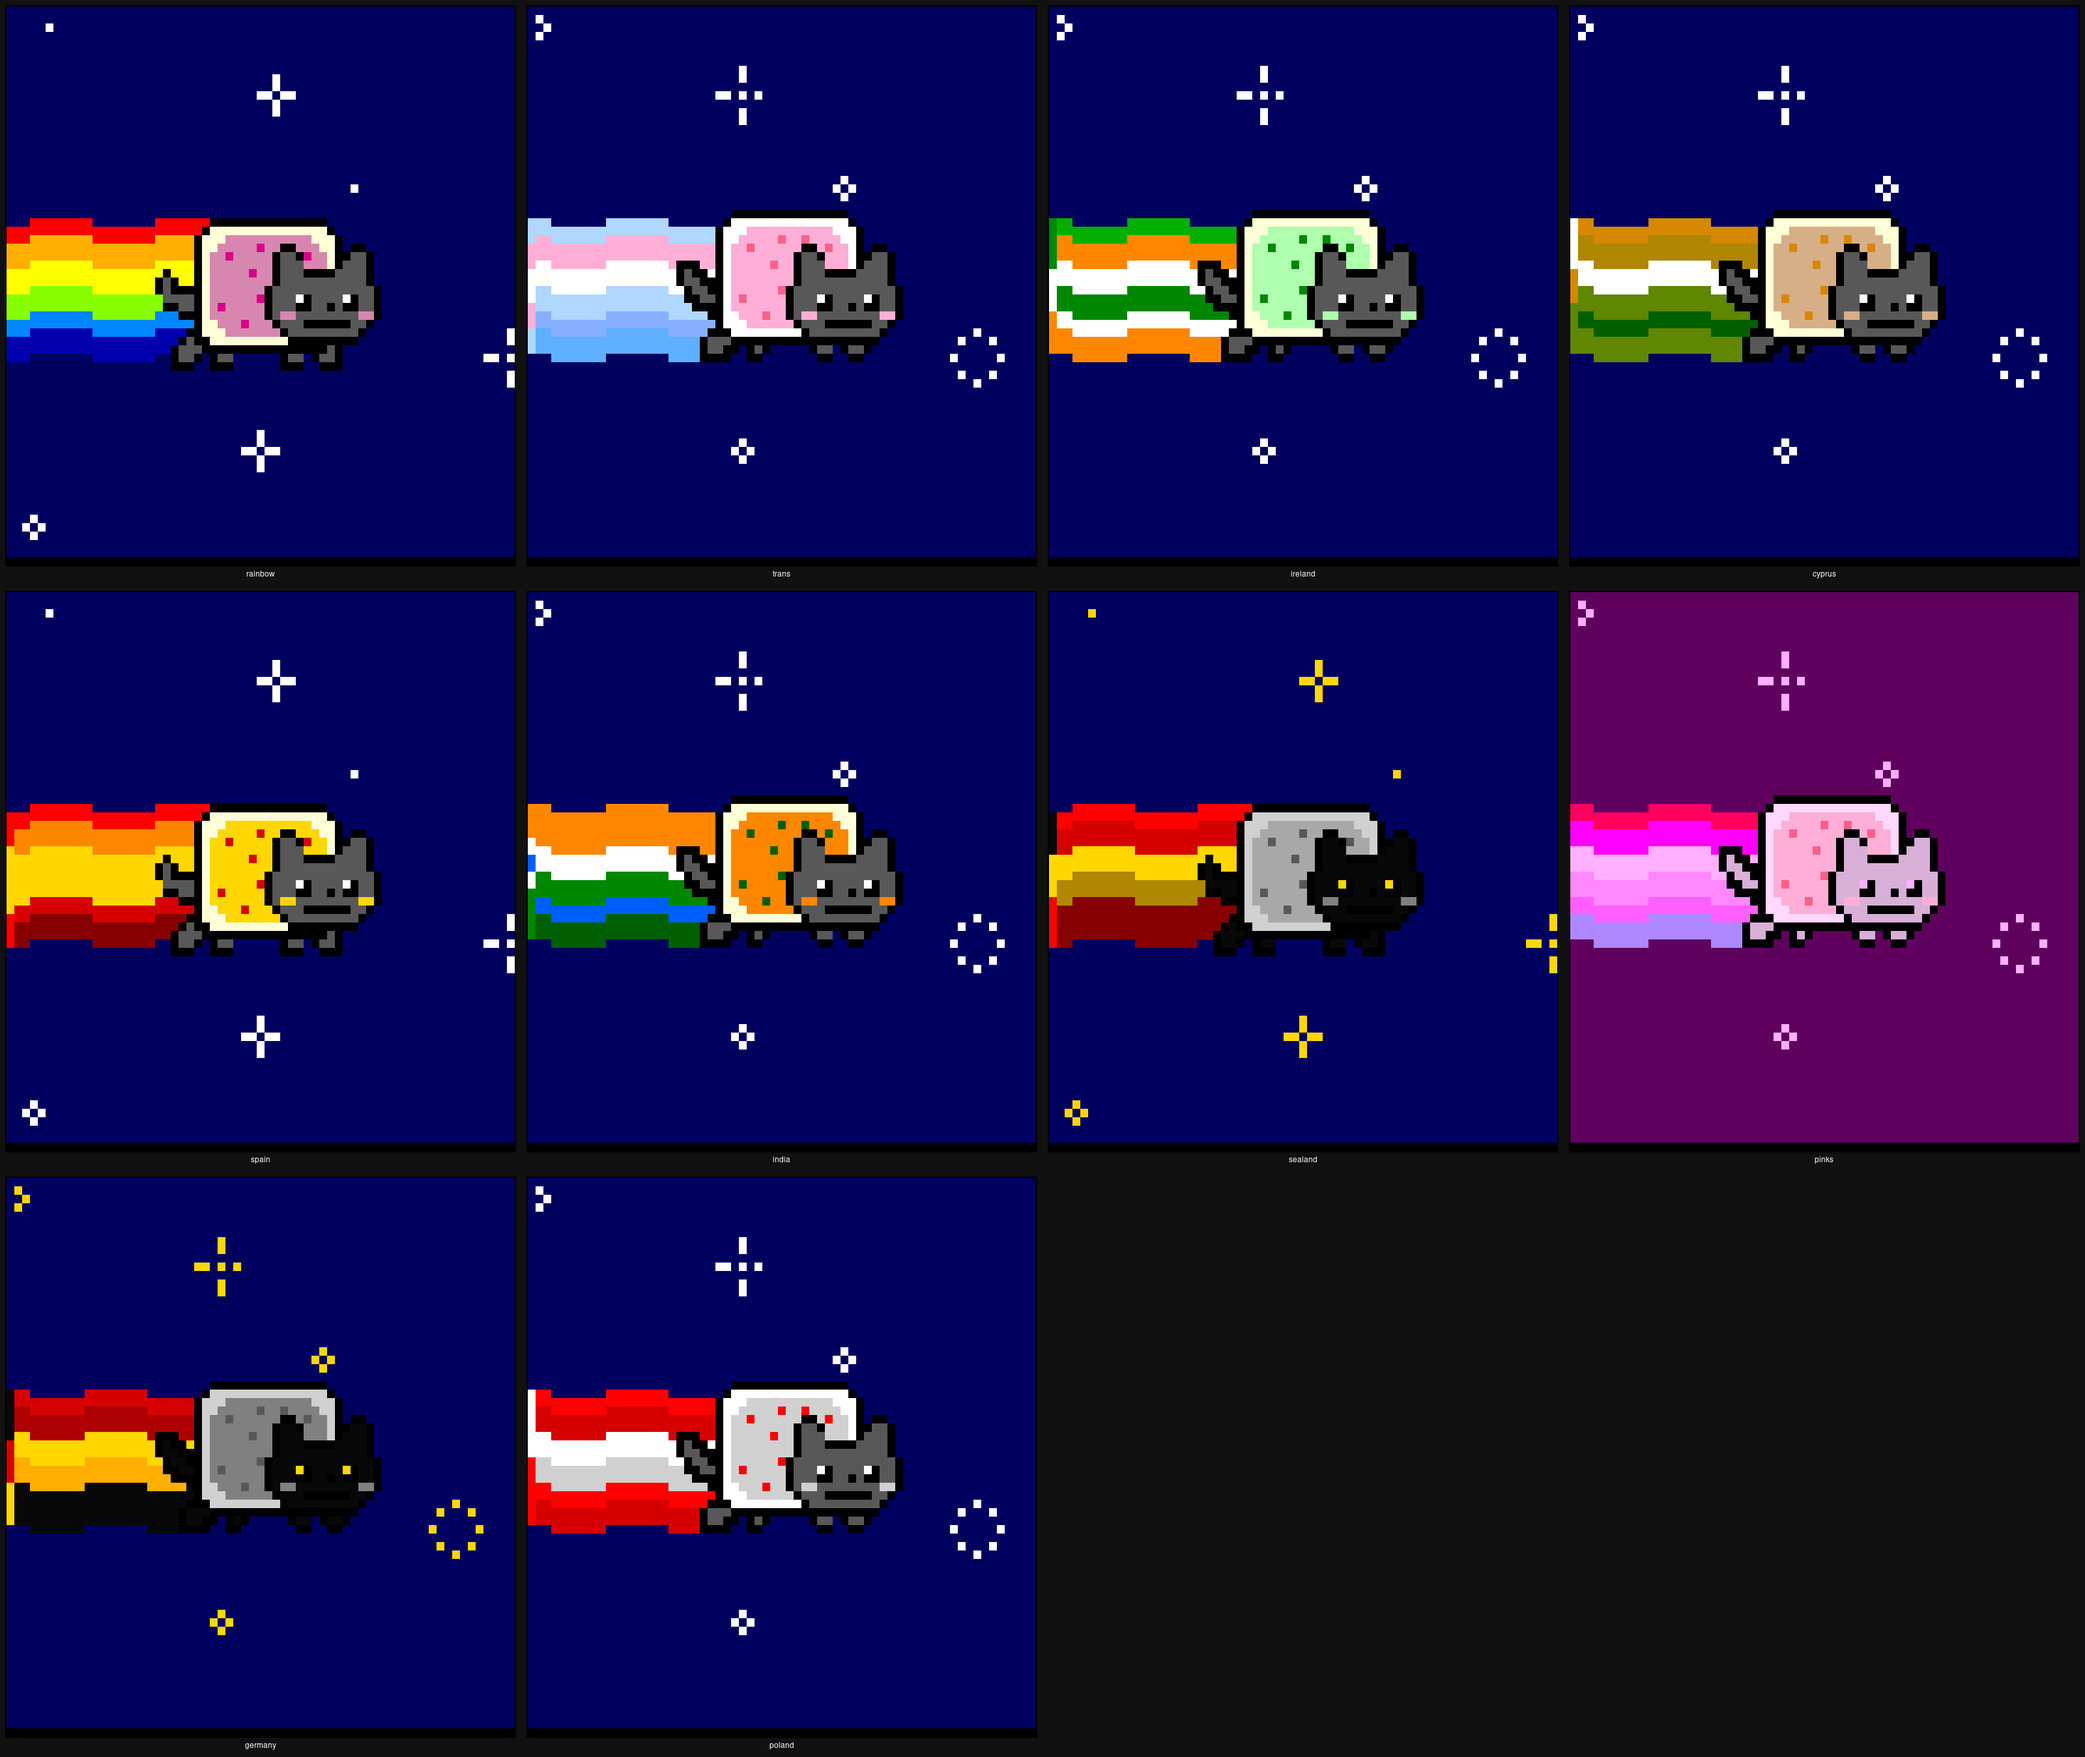
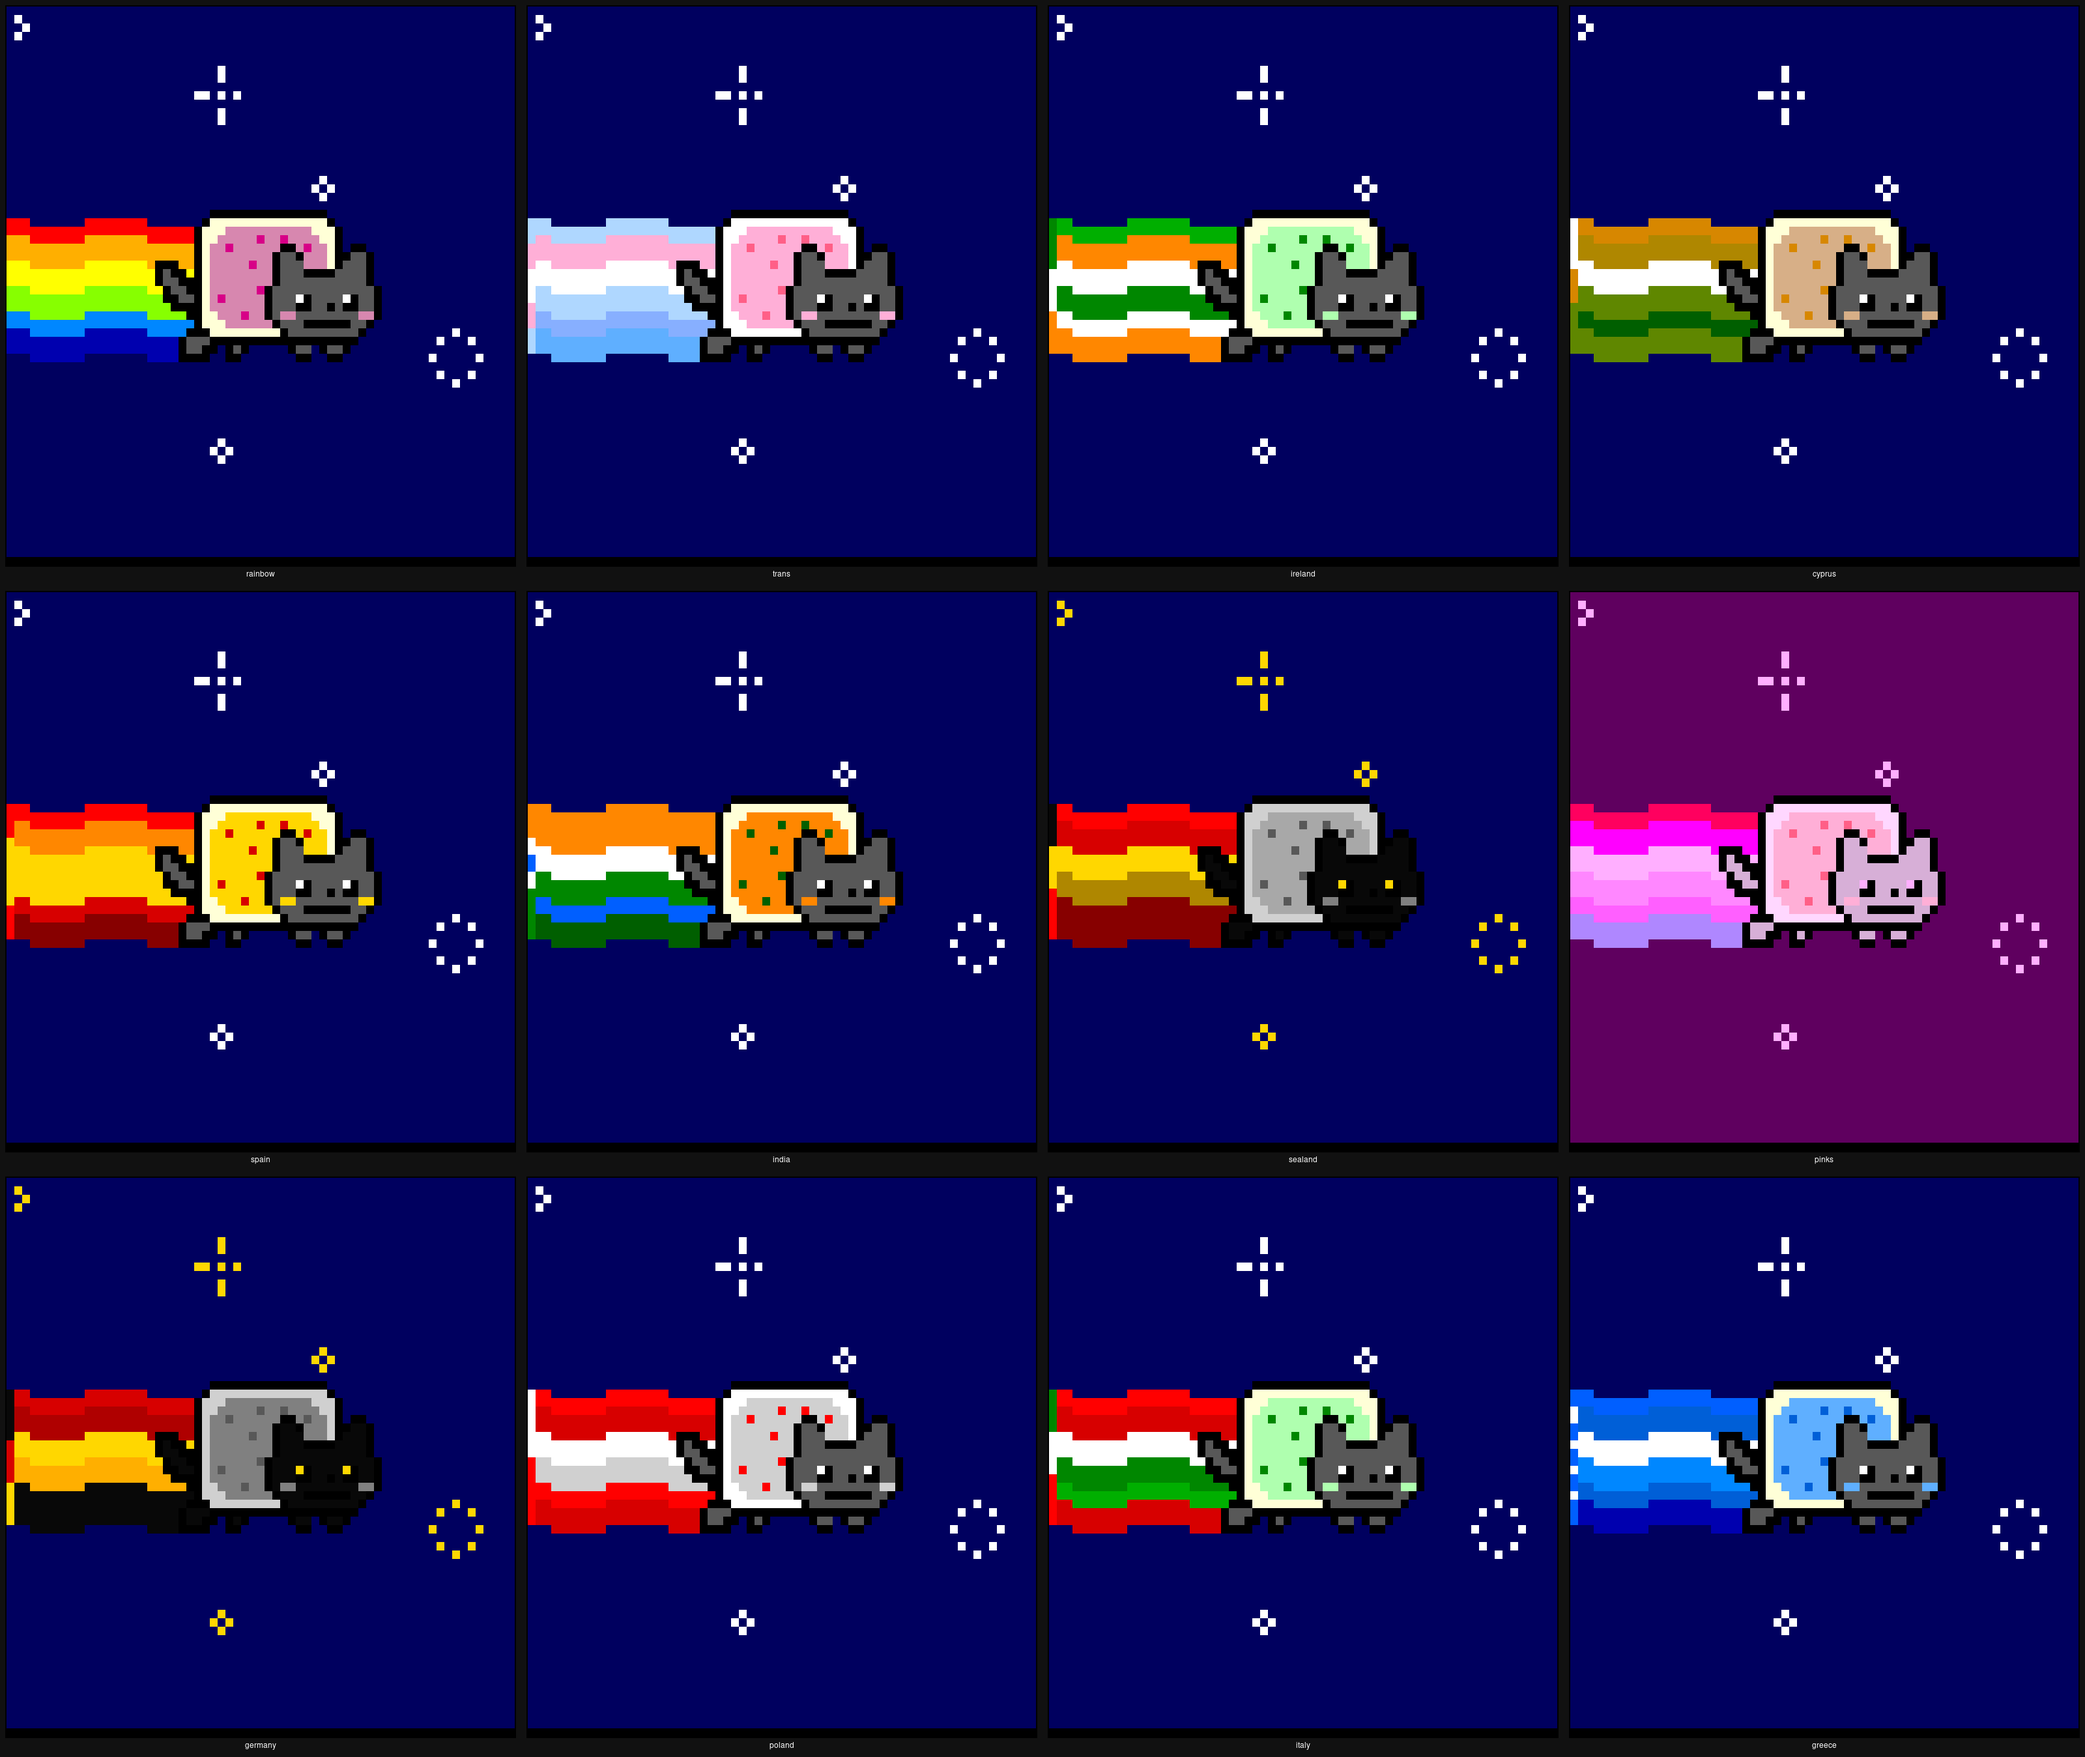
add Greece and Italy schemes, update CLAUDE.md, regenerate preview

diff --git a/schemes.py b/schemes.py
@@ -225,6 +225,50 @@ SCHEME_POLAND: ColourScheme = {
     'rainbow': ',,........>>>>>>>>,,',
 }
 
+# Italy — green, white, and red vertical bands; represented as horizontal stripes in the trail
+SCHEME_ITALY: ColourScheme = {
+    'colors': {
+        ',': '\033[48;5;17m',    # dark navy background
+        '.': '\033[48;5;231m',   # white (stars)
+        "'": '\033[48;5;16m',    # black
+        '@': '\033[48;5;230m',   # cream (cat body)
+        '$': '\033[48;5;157m',   # light green (cat body tint)
+        '-': '\033[48;5;28m',    # Italian green (detail)
+        '>': '\033[48;5;196m',   # Italian red
+        '&': '\033[48;5;160m',   # deeper red
+        '+': '\033[48;5;231m',   # white
+        '#': '\033[48;5;28m',    # Italian green
+        '=': '\033[48;5;34m',    # brighter green
+        ';': '\033[48;5;160m',   # dark red
+        '*': '\033[48;5;240m',   # grey
+        '%': '\033[48;5;157m',   # light green
+    },
+    # green (top), white (middle), red (bottom) — equal thirds
+    'rainbow': ',,#####.....>>>>>>,,',
+}
+
+# Greece — nine alternating blue and white stripes; blue canton with white cross
+SCHEME_GREECE: ColourScheme = {
+    'colors': {
+        ',': '\033[48;5;17m',    # dark navy background
+        '.': '\033[48;5;231m',   # white (stars)
+        "'": '\033[48;5;16m',    # black
+        '@': '\033[48;5;230m',   # cream (cat body)
+        '$': '\033[48;5;75m',    # light Greek blue (cat body tint)
+        '-': '\033[48;5;26m',    # Greek blue (detail)
+        '>': '\033[48;5;27m',    # Greek blue
+        '&': '\033[48;5;26m',    # deeper blue
+        '+': '\033[48;5;231m',   # white
+        '#': '\033[48;5;33m',    # medium blue
+        '=': '\033[48;5;26m',    # Greek blue
+        ';': '\033[48;5;19m',    # dark blue
+        '*': '\033[48;5;240m',   # grey
+        '%': '\033[48;5;75m',    # light blue
+    },
+    # nine stripes: blue-white-blue-white-blue-white-blue-white-blue
+    'rainbow': ',,>>++>>+>>+>>+>>>,,'
+}
+
 # Germany — black, red, and gold horizontal bands matching the Bundesflagge
 SCHEME_GERMANY: ColourScheme = {
     'colors': {
@@ -259,4 +303,5 @@ SCHEMES: dict[str, ColourScheme] = {
     'germany': SCHEME_GERMANY,
     'poland': SCHEME_POLAND,
     'italy': SCHEME_ITALY,
+    'greece': SCHEME_GREECE,
 }

diff --git a/nyancat.py b/nyancat.py
@@ -42,12 +42,14 @@ PRIDE_MONTH = 6  # June
 NATIONAL_DAYS: dict[tuple[int, int], str] = {
     (3, 8):  'pinks',     # International Women's Day
     (3, 17): 'ireland',   # St. Patrick's Day
+    (3, 25): 'greece',   # Greek Independence Day
     (6, 2):  'italy',     # Festa della Repubblica
     (8, 15): 'india',     # India Independence Day
     (9, 2):  'sealand',   # Sealand founding
     (10, 1): 'cyprus',    # Cyprus Independence Day
     (10, 3):  'germany',  # Tag der Deutschen Einheit
     (10, 12): 'spain',    # Fiesta Nacional de España
+    (10, 28): 'greece',  # Ochi Day
     (11, 11): 'poland',   # Święto Niepodległości
 }
 

diff --git a/CLAUDE.md b/CLAUDE.md
@@ -7,6 +7,13 @@ Terminal Nyan Cat animation, ported from Python 2 (taizilongxu/nyancat).
 ## Running
 
 ```
-rs run
-python3 nyancat.py
+rs nyan                          # run with auto-selected scheme
+python3 nyancat.py --scheme ireland
+python3 nyancat.py --random
+```
+
+Schemes are defined in `schemes.py`. The scheme auto-selects by date: national flags on their national days, `trans` throughout June, `rainbow` otherwise.
+
+```
+rs preview [output.png]          # screenshot every scheme and assemble a preview grid
 ```

diff --git a/README.md b/README.md
@@ -10,7 +10,7 @@ Terminal Nyan Cat animation, ported from [taizilongxu/nyancat](https://github.co
 python3 nyancat.py [--scheme SCHEME] [--random]
 ```
 
-`--scheme` picks a colour scheme: `rainbow` (default), `trans`, `ireland`, `italy`, `cyprus`, `spain`, `india`, `sealand`, `pinks`, `germany`, `poland`.
+`--scheme` picks a colour scheme: `rainbow` (default), `trans`, `ireland`, `italy`, `cyprus`, `spain`, `india`, `sealand`, `pinks`, `germany`, `poland`, `greece`.
 
 `--random` picks one at random.
 
